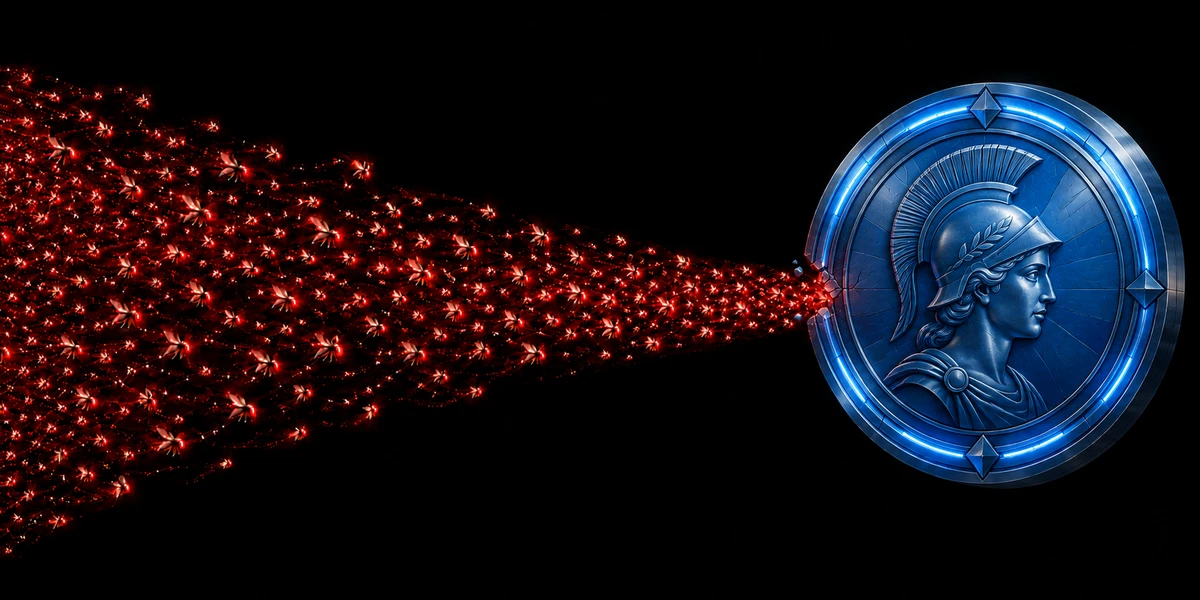
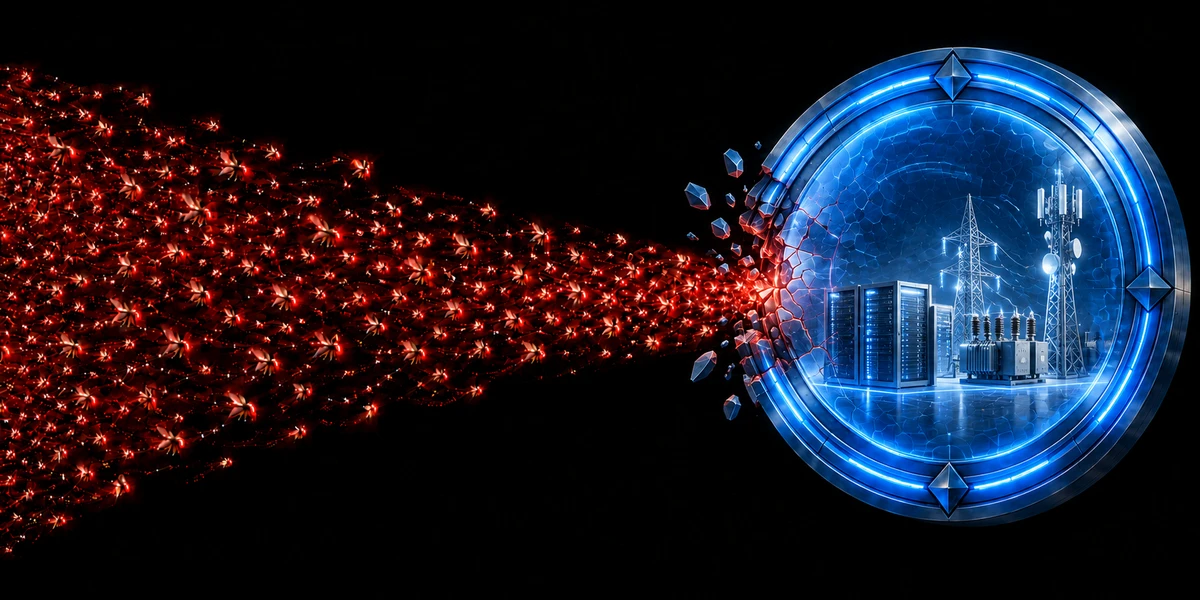
Show cyber shield protecting critical infrastructure

diff --git a/index.html b/index.html
@@ -72,7 +72,7 @@
         <p class="hero-description">A systematic testbed for swarm loss of control.</p>
         <a class="button" href="#motivation">Key elements <span aria-hidden="true">↓</span></a>
       </div>
-      <div class="hero-emblem" aria-hidden="true"><img src="static/images/swarmharm-fleet.webp?v=7" alt="" width="1200" height="600" decoding="async"></div>
+      <div class="hero-emblem"><img src="static/images/swarmharm-fleet.webp?v=8" alt="A red swarm converges on a fractured blue cyber shield protecting servers, the power grid, and communications infrastructure." width="1200" height="600" decoding="async"></div>
     </div>
   </section>
 
